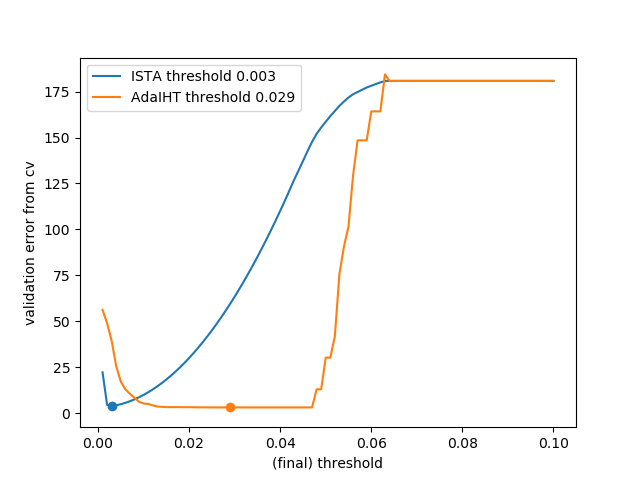
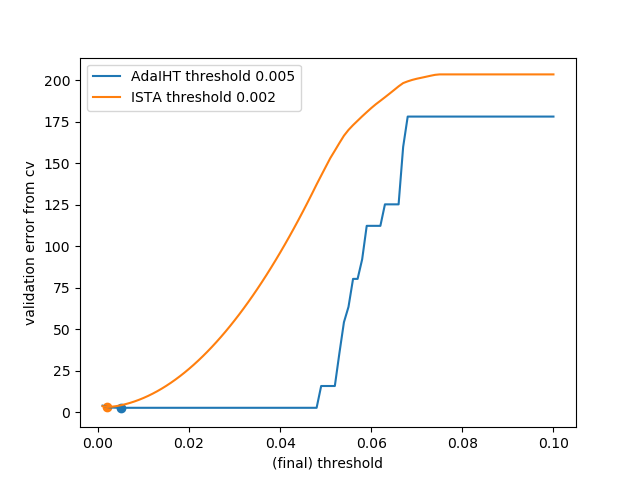
modify lambda of AdaIHT

diff --git a/algorithms/iterative_threshold_methods.py b/algorithms/iterative_threshold_methods.py
@@ -57,15 +57,15 @@ class IterativeThresholdMethods:
         @param iterative_method_type - "ISTA" or "AdaIHT"
         @return x - recovered signal
         """
+        x = np.zeros((len(H[0]), 1))
         if iterative_method_type == constants.IHT_NAME:
-            lambda_step = np.max(y)
+            lambda_step = np.max(alpha * np.dot(np.transpose(H), y - np.dot(H, x)))
         else:  #ISTA
             lambda_step = lambda_para
-        x = np.zeros((len(H[0]), 1))
         for _ in range(num_iter):
             if iterative_method_type == constants.IHT_NAME:
                 x = self.run_hard_func(x, y, H, lambda_step, alpha)
-                lambda_step /= 1.5  # update threshold
+                lambda_step *= 0.95  # update threshold
                 if lambda_step < lambda_para:
                     lambda_step = lambda_para
             else:  #ISTA
@@ -88,16 +88,16 @@ class IterativeThresholdMethods:
             gener_errors- record errors of estimations of each iterations, 
             and the details of definition of the error are in Error class.
         """
+        x = np.zeros((len(H[0]), 1))
         if iterative_method_type == constants.IHT_NAME:
-            lambda_step = np.max(y)
+            lambda_step = np.max(alpha * np.dot(np.transpose(H), y - np.dot(H, x)))
         else:  #ISTA
             lambda_step = lambda_para
-        x = np.zeros((len(H[0]), 1))
         gener_errors = [0] * N_iter
         for i in range(N_iter):
             if iterative_method_type == constants.IHT_NAME:
                 x = self.run_hard_func(x, y, H, lambda_step, alpha)
-                lambda_step /= 1.5  # update threshold
+                lambda_step *= 0.95  # update threshold
                 if lambda_step < lambda_para:
                     lambda_step = lambda_para
             else:  #ISTA
